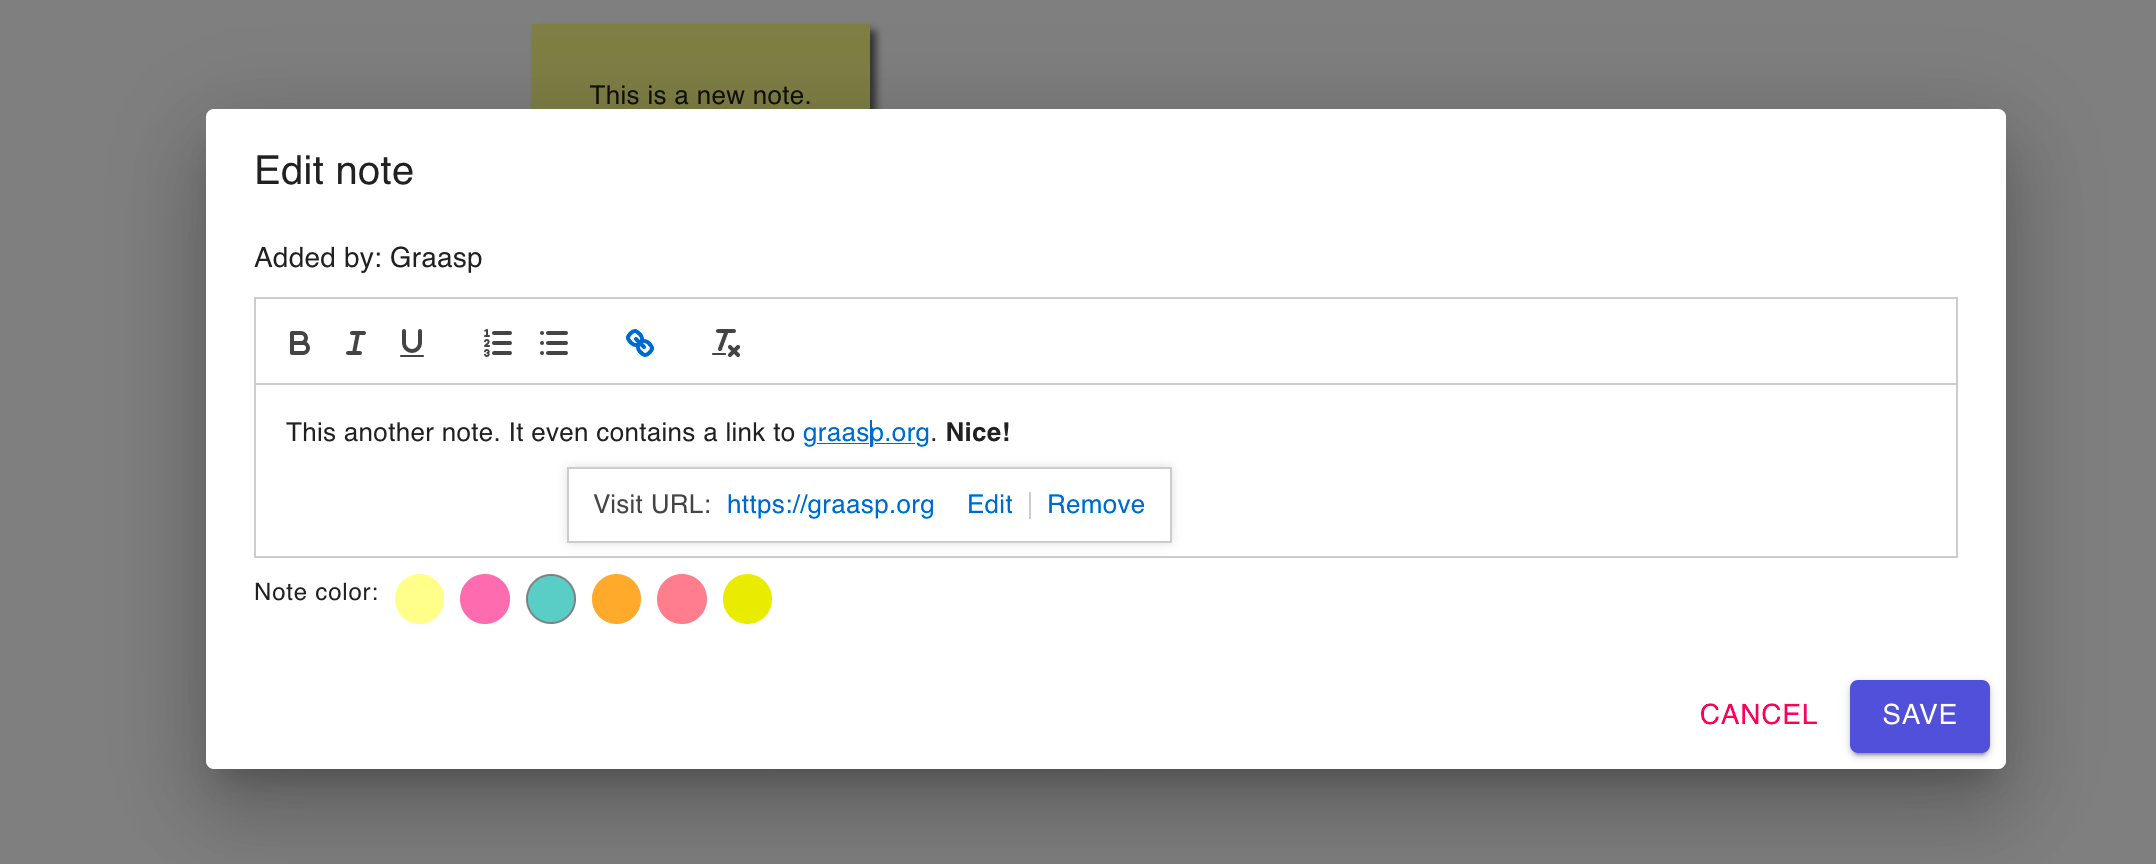
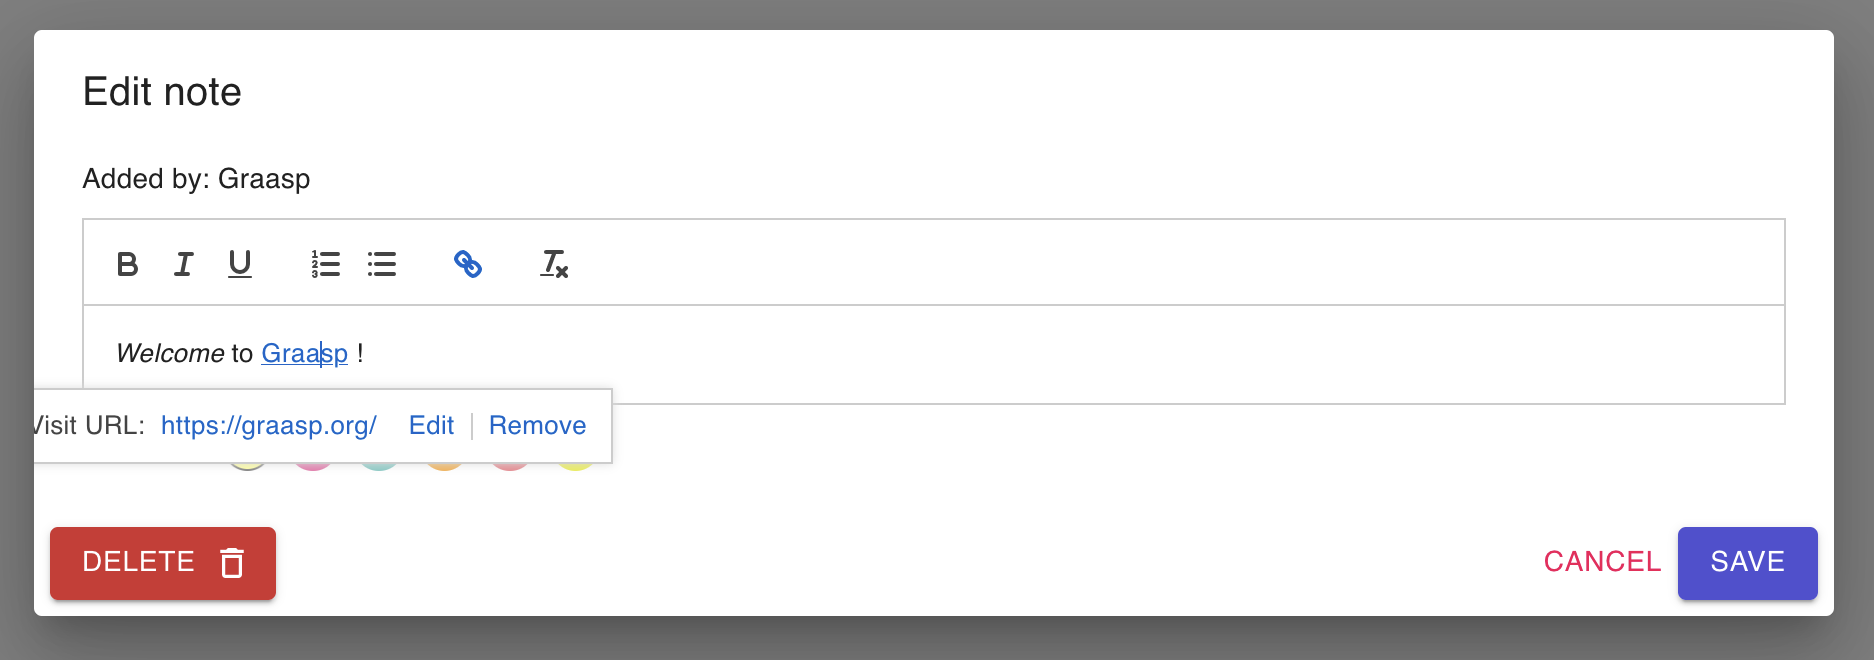
feat: add delete button in edit dialog

Changed region(s): [[0.0, 0.0303, 0.9904, 0.9697]]

diff --git a/src/components/main/note/EditDialog.tsx b/src/components/main/note/EditDialog.tsx
@@ -1,10 +1,11 @@
-import React, { useRef, useState } from 'react';
+import React, { FC, useRef, useState } from 'react';
 import { useTranslation } from 'react-i18next';
 import ReactQuill from 'react-quill';
 import 'react-quill/dist/quill.snow.css';
 
 import { Button } from '@graasp/ui';
 
+import DeleteOutlinedIcon from '@mui/icons-material/DeleteOutlined';
 import { Stack, Typography } from '@mui/material';
 import Dialog, { DialogProps } from '@mui/material/Dialog';
 import DialogActions from '@mui/material/DialogActions';
@@ -20,10 +21,17 @@ interface EditDialogProps extends DialogProps {
   userName: string;
   onCancel: () => void;
   onSave: (text: string, color?: string) => void;
+  onDelete: () => void;
 }
 
-const EditDialog = (props: EditDialogProps): JSX.Element => {
-  const { note, userName, open, onCancel, onSave } = props;
+const EditDialog: FC<EditDialogProps> = ({
+  note,
+  userName,
+  open,
+  onCancel,
+  onSave,
+  onDelete,
+}) => {
   const { t } = useTranslation();
   const { text, color: initialColor } = note;
 
@@ -81,11 +89,20 @@ const EditDialog = (props: EditDialogProps): JSX.Element => {
           </Stack>
         </Stack>
       </DialogContent>
-      <DialogActions>
-        <Button variant="text" color="secondary" onClick={onCancel}>
-          {t('Cancel')}
+      <DialogActions sx={{ justifyContent: 'space-between' }}>
+        <Button
+          color="error"
+          onClick={onDelete}
+          endIcon={<DeleteOutlinedIcon />}
+        >
+          {t('Delete')}
         </Button>
-        <Button onClick={() => onSave(value, color)}>{t('Save')}</Button>
+        <div>
+          <Button variant="text" color="secondary" onClick={onCancel}>
+            {t('Cancel')}
+          </Button>
+          <Button onClick={() => onSave(value, color)}>{t('Save')}</Button>
+        </div>
       </DialogActions>
     </Dialog>
   );

diff --git a/src/components/main/note/Note.tsx b/src/components/main/note/Note.tsx
@@ -278,6 +278,10 @@ const Note = ({ note, id, userName, scale }: NoteProps): JSX.Element => {
           handleUpdate(newText, newColor);
           toggleEdit(false);
         }}
+        onDelete={() => {
+          toggleEdit(false);
+          handleDelete();
+        }}
       />
     </>
   );
